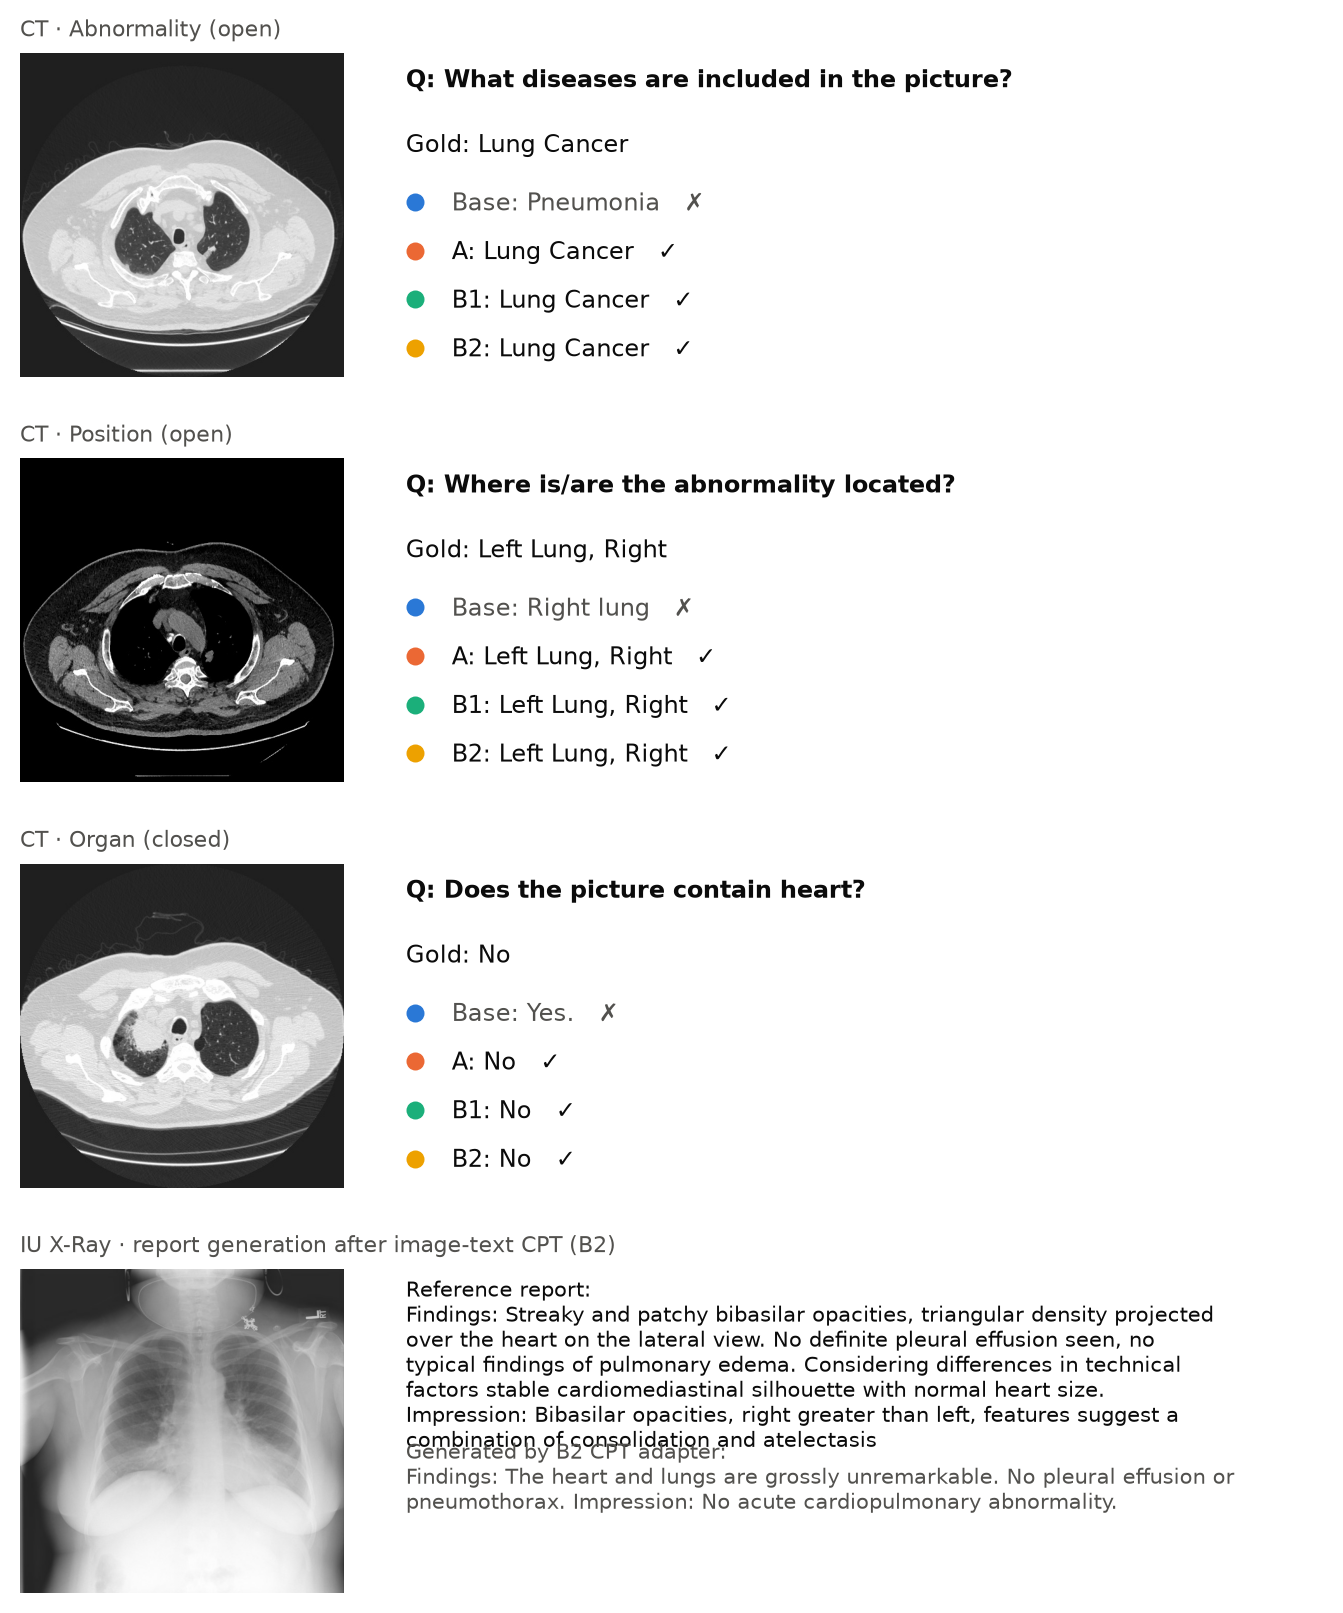
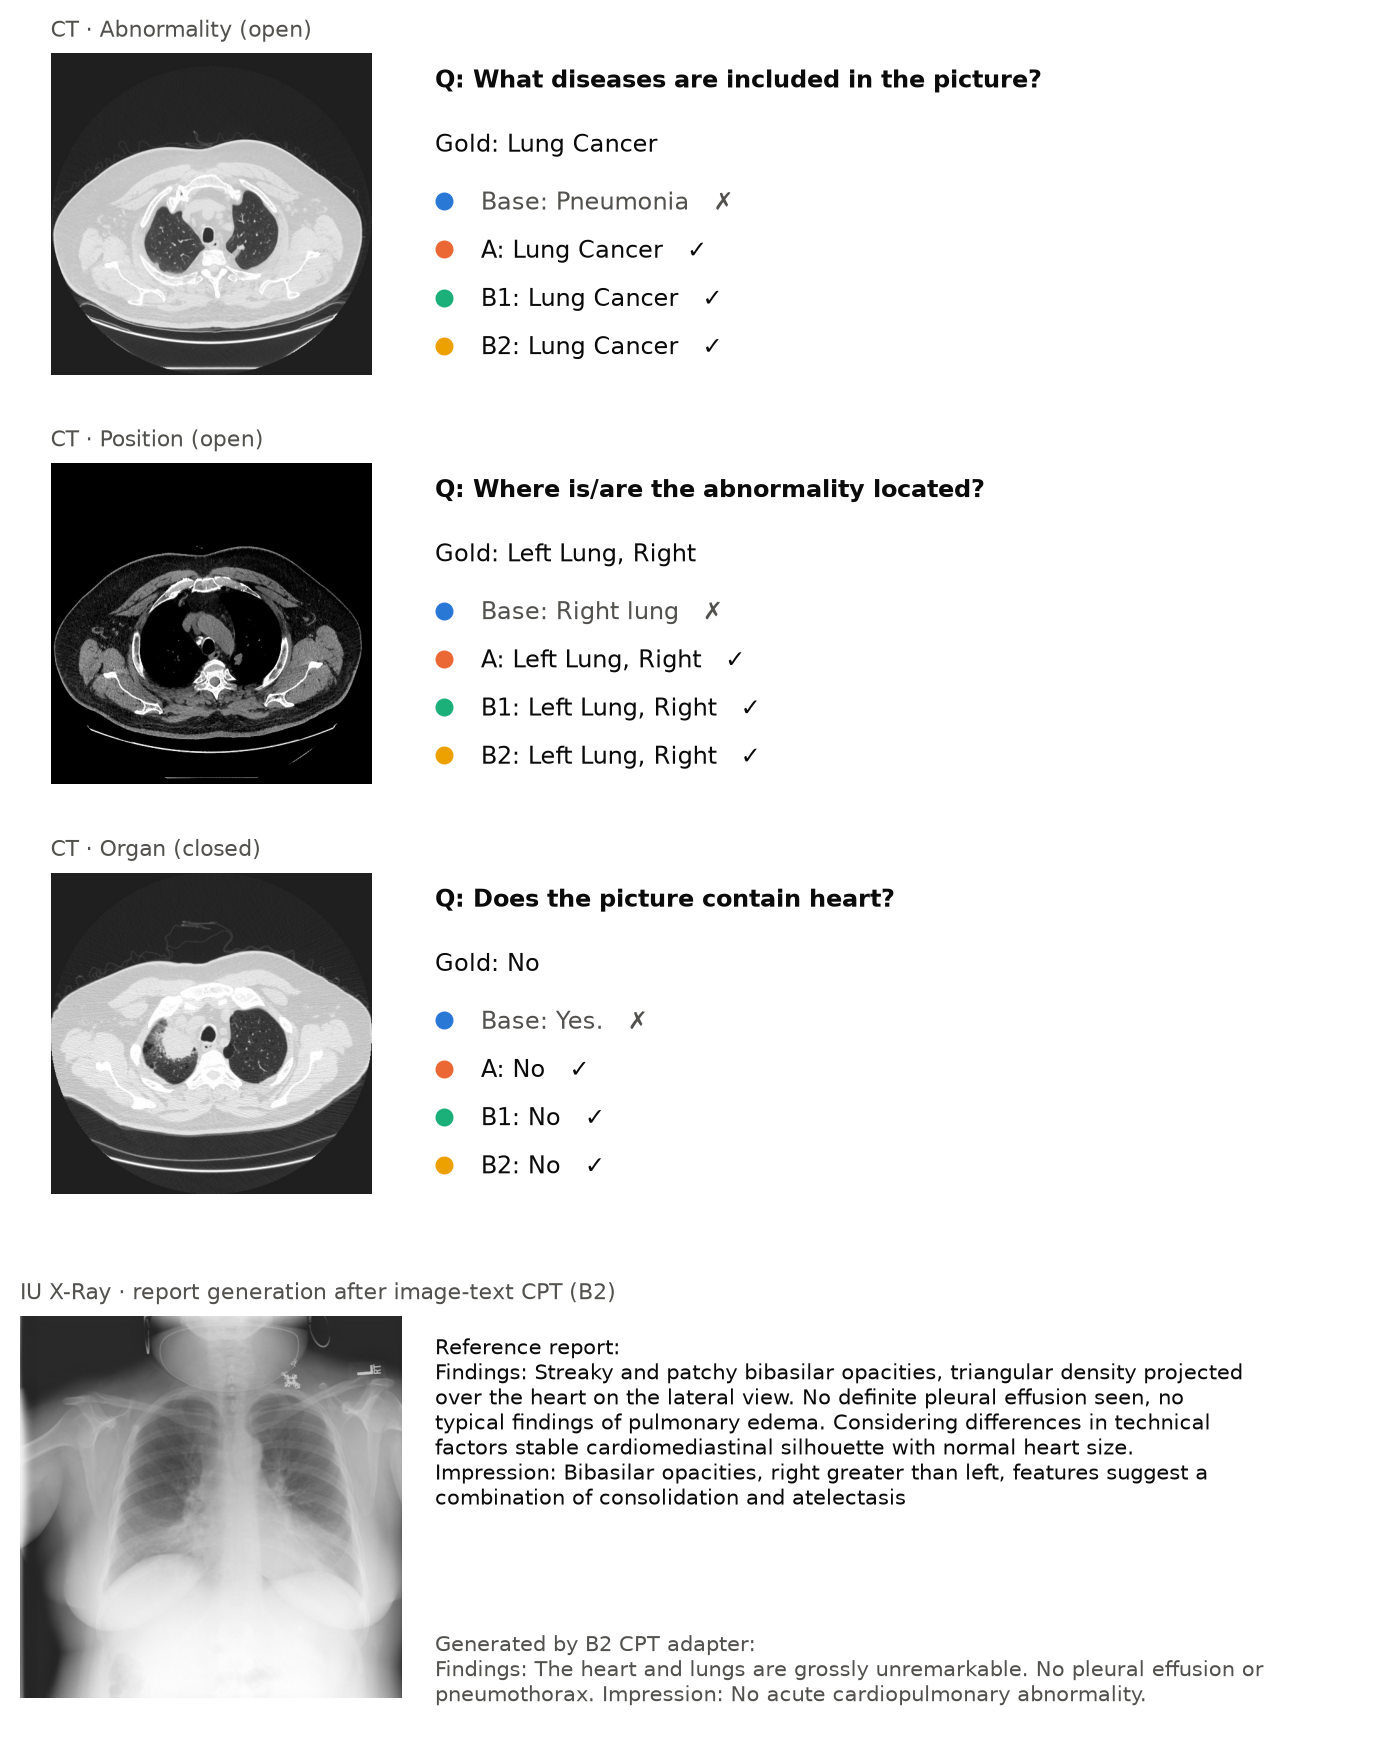
Fig 6: use the abnormal X-ray example, fix layout

Changed region(s): [[0.0, 0.0, 0.9159, 0.9919], [0.3053, 0.031, 0.7632, 0.217]]

diff --git a/scripts/make_fig6_examples.py b/scripts/make_fig6_examples.py
@@ -53,8 +53,8 @@ qids = [int(x) for x in args.qids.split(",") if x] or pick(preds, [("Abnormality
 iu = json.load(open(OUT / "iu_examples.json", encoding="utf-8")) if (OUT / "iu_examples.json").exists() else []
 rows = len(qids) + (1 if iu else 0)
 
-fig = plt.figure(figsize=(8.6, 2.5 * rows))
-gs = fig.add_gridspec(rows, 2, width_ratios=[1, 2.4], wspace=0.05, hspace=0.25)
+fig = plt.figure(figsize=(8.6, 2.5 * rows + (0.9 if iu else 0)))
+gs = fig.add_gridspec(rows, 2, width_ratios=[1, 2.4], height_ratios=[1] * len(qids) + ([1.4] if iu else []), wspace=0.05, hspace=0.25)
 for i, q in enumerate(qids):
     m = META[q]
     axi = fig.add_subplot(gs[i, 0]); axt = fig.add_subplot(gs[i, 1]); axt.axis("off")
@@ -77,7 +77,7 @@ if iu:
     axi = fig.add_subplot(gs[rows - 1, 0]); axt = fig.add_subplot(gs[rows - 1, 1]); axt.axis("off")
     axi.imshow(Image.open(e["image"]).convert("RGB"), cmap="gray"); axi.axis("off")
     axi.set_title("IU X-Ray · report generation after image-text CPT (B2)", fontsize=8, color=INK2, loc="left")
-    axt.text(0, 0.97, "Reference report:\n" + textwrap.fill(e["gold"], 78), va="top", fontsize=7.4, color=INK, transform=axt.transAxes)
-    axt.text(0, 0.47, "Generated by B2 CPT adapter:\n" + textwrap.fill(e["pred"], 78), va="top", fontsize=7.4, color=INK2, transform=axt.transAxes)
+    axt.text(0, 0.88, "Reference report:\n" + textwrap.fill(e["gold"], 78), va="top", fontsize=7.4, color=INK, transform=axt.transAxes)
+    axt.text(0, 0.22, "Generated by B2 CPT adapter:\n" + textwrap.fill(e["pred"], 78), va="top", fontsize=7.4, color=INK2, transform=axt.transAxes)
 fig.savefig(OUT / "fig6_examples.png")
 print("qids:", qids, "->", OUT / "fig6_examples.png")
